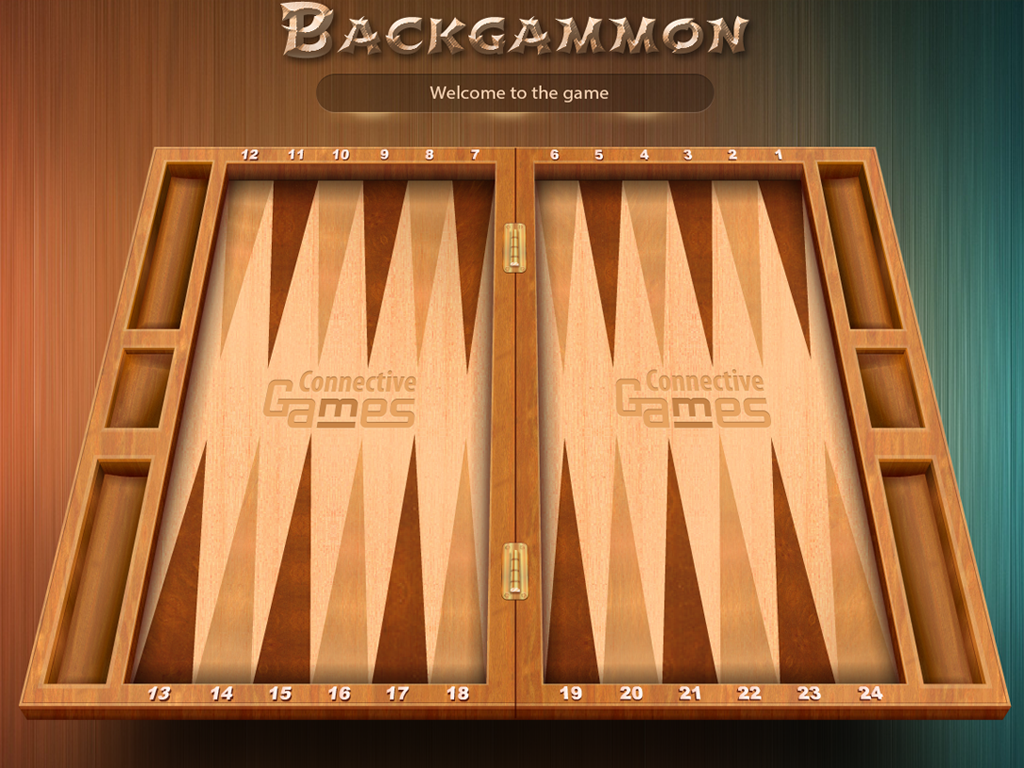
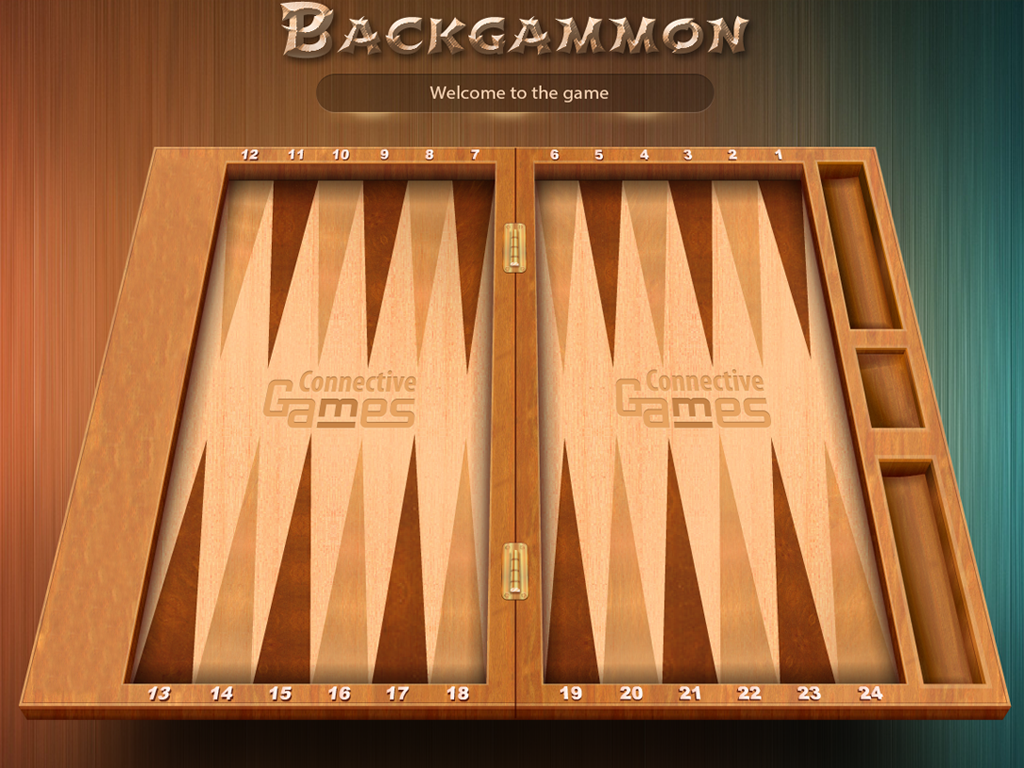
reDice+reBg

Changed region(s): [[0.0938, 0.1875, 0.2188, 0.5625], [0.0312, 0.5938, 0.1562, 0.9062]]

diff --git a/client/sources/game/Board.ts b/client/sources/game/Board.ts
@@ -23,7 +23,6 @@ export class Board extends Container2d {
     public static EVENT_GAME_END:string = 'GameEnd';
 
 
-
     public _newBg:Sprite;
     public metaDice1: number;
     public metaDice2: number;
@@ -40,15 +39,12 @@ export class Board extends Container2d {
     public _chipsOnTheRight = 0;
     private _exitWhite:number = 26;
     private _exitBlack:number = 27;
-    private _countExitWhite:number;
-    private _countExitBlack:number;
     private _maxDice:number = 0;
     private _minDice:number;
     private _isActive:boolean;
     private _activeMoves:number;
     private _activeDices:number[];
     private _activColor:number;
-
     private _container:Container2d;
     // public arrayChips: any[] = [
     //     [],
@@ -70,47 +66,43 @@ export class Board extends Container2d {
     // ];
 
 
-    public arrayChips: any[] = [
-        [],
-        [new Chip(Chip.COLOR_WHITE), new Chip(Chip.COLOR_WHITE)]
-        , [], [], [], [],
-        [new Chip(Chip.COLOR_BLACK), new Chip(Chip.COLOR_BLACK), new Chip(Chip.COLOR_BLACK), new Chip(Chip.COLOR_BLACK), new Chip(Chip.COLOR_BLACK)],
-        [],
-        [new Chip(Chip.COLOR_BLACK), new Chip(Chip.COLOR_BLACK), new Chip(Chip.COLOR_BLACK)],
-        [], [], [],
-        [new Chip(Chip.COLOR_WHITE), new Chip(Chip.COLOR_WHITE), new Chip(Chip.COLOR_WHITE), new Chip(Chip.COLOR_WHITE), new Chip(Chip.COLOR_WHITE)],
-        [new Chip(Chip.COLOR_BLACK), new Chip(Chip.COLOR_BLACK), new Chip(Chip.COLOR_BLACK), new Chip(Chip.COLOR_BLACK), new Chip(Chip.COLOR_BLACK)],
-        [], [], [],
-        [new Chip(Chip.COLOR_WHITE), new Chip(Chip.COLOR_WHITE), new Chip(Chip.COLOR_WHITE)],
-        [],
-        [new Chip(Chip.COLOR_WHITE), new Chip(Chip.COLOR_WHITE), new Chip(Chip.COLOR_WHITE), new Chip(Chip.COLOR_WHITE), new Chip(Chip.COLOR_WHITE)],
-        [], [], [], [],
-        [new Chip(Chip.COLOR_BLACK), new Chip(Chip.COLOR_BLACK)],
-        [],[],[]
-    ];
-
     // public arrayChips: any[] = [
     //     [],
-    //     []
+    //     [new Chip(Chip.COLOR_WHITE), new Chip(Chip.COLOR_WHITE)]
     //     , [], [], [], [],
+    //     [new Chip(Chip.COLOR_BLACK), new Chip(Chip.COLOR_BLACK), new Chip(Chip.COLOR_BLACK), new Chip(Chip.COLOR_BLACK), new Chip(Chip.COLOR_BLACK)],
     //     [],
-    //     [],
-    //     [],
+    //     [new Chip(Chip.COLOR_BLACK), new Chip(Chip.COLOR_BLACK), new Chip(Chip.COLOR_BLACK)],
     //     [], [], [],
-    //     [],
-    //     [],
+    //     [new Chip(Chip.COLOR_WHITE), new Chip(Chip.COLOR_WHITE), new Chip(Chip.COLOR_WHITE), new Chip(Chip.COLOR_WHITE), new Chip(Chip.COLOR_WHITE)],
+    //     [new Chip(Chip.COLOR_BLACK), new Chip(Chip.COLOR_BLACK), new Chip(Chip.COLOR_BLACK), new Chip(Chip.COLOR_BLACK), new Chip(Chip.COLOR_BLACK)],
     //     [], [], [],
+    //     [new Chip(Chip.COLOR_WHITE), new Chip(Chip.COLOR_WHITE), new Chip(Chip.COLOR_WHITE)],
     //     [],
-    //     [],
-    //     [],
+    //     [new Chip(Chip.COLOR_WHITE), new Chip(Chip.COLOR_WHITE), new Chip(Chip.COLOR_WHITE), new Chip(Chip.COLOR_WHITE), new Chip(Chip.COLOR_WHITE)],
     //     [], [], [], [],
-    //     [],
+    //     [new Chip(Chip.COLOR_BLACK), new Chip(Chip.COLOR_BLACK)],
     //     [],[],[]
     // ];
 
-//arrayChips
-
-
+    private arrayChips: any[] = [
+        [],
+        []
+        ,[], [], [], [],
+        [],
+        [],
+        [],
+        [], [], [],
+        [],
+        [],
+        [], [], [],
+        [],
+        [],
+        [],
+        [], [], [], [],
+        [],
+        [],[],[]
+    ];
 
     // public arrayChips: any[] = [
     //     [],
@@ -159,7 +151,6 @@ export class Board extends Container2d {
         new PIXI.Point(515,618),
 
         new PIXI.Point(885,628),new PIXI.Point(885,313)];
-
 
     public arrayPositionSector: Point[] = [
         new PIXI.Point(515,250),
@@ -213,7 +204,7 @@ export class Board extends Container2d {
                 if(chipPos[i].length==0){
                     this.arrayChips.push([]);
                 }else if(chipPos[i][j] == 0){
-                    this.arrayChips[i].push(new Chip(Chip.COLOR_WHITE))
+                    this.arrayChips[i].push(new Chip(Chip.COLOR_WHITE));
                 }else if(chipPos[i][j] == 1){
                     this.arrayChips[i].push(new Chip(Chip.COLOR_BLACK))
                 }
@@ -234,7 +225,7 @@ export class Board extends Container2d {
         }
     }
 
-    private drawState():void {
+    public drawState():void {
         //задает позицию фишек и рисует фишки
         for (let i = 0; i < this.arrayChips.length; i++) {
             for (let j = 0; j < this.arrayChips[i].length; j++) {
@@ -258,7 +249,6 @@ export class Board extends Container2d {
         this.arraySectors[this.sectorJailWhite].position.set(this.arrayPositionSector[this.sectorJailWhite].x,this.arrayPositionSector[this.sectorJailWhite].y);     //Jail
         this.arraySectors[this.sectorJailBlack].position.set(this.arrayPositionSector[this.sectorJailBlack].x,this.arrayPositionSector[this.sectorJailBlack].y);    //Jail
         this.arraySectors[this._exitBlack].rotation = -3.14;
-        // this.arraySectors[this._exitWhite].rotation = 0;
         this.arraySectors[this._exitWhite].position.set(this.arrayPositionSector[this._exitWhite].x,this.arrayPositionSector[this._exitWhite].y);
         this.arraySectors[this._exitBlack].position.set(this.arrayPositionSector[this._exitBlack].x,this.arrayPositionSector[this._exitBlack].y);
     }
@@ -273,7 +263,6 @@ export class Board extends Container2d {
     //-----------------Блок отрисовки элементов на доске конец---------------------
 
     //-----------------Блок деактивации элементов на доске начало---------------------
-
 
     private deactivationAllSectors():void{
         for (let i = 0; i < this.arraySectors.length; i++) {
@@ -308,7 +297,6 @@ export class Board extends Container2d {
         }
     }
     //-----------------Блок деактивации элементов на доске конец---------------------
-
 
     public startTurn(firsDice:number,secondDice:number,activColor:number):void{ //начало хода
         this.setDice(firsDice,secondDice);
@@ -364,13 +352,12 @@ export class Board extends Container2d {
     }
 
     private sectorClick(data: InteractionData): void {
-        //тут начинается магия
         if (this.countClick == 0) {
             this.countClick++;
             this.sound.playSoundClickChip();
-            this.firsSelectSectorIndex = this.arraySectors.indexOf(data.target);    // делаю это для того что бы можно было воспользоваться сектором на который кликнули первый раз т.е выбрали фишку
-            this.selectChip(this.firsSelectSectorIndex);    //в этом методе фишка меняет скин на зеленый (активный)
-            this.deactivationAllSectors();//убираю интерактив после выбора фишки со всех секторов кроме подсвеченных и кроме того на котором фишка стоит что бы можно было отметить выбранную фишку
+            this.firsSelectSectorIndex = this.arraySectors.indexOf(data.target);
+            this.selectChip(this.firsSelectSectorIndex);
+            this.deactivationAllSectors();
             this.arraySectors[this.firsSelectSectorIndex].interactiveOn();
             // console.log('Выбранный сектор  ' + this.firsSelectSectorIndex );
             // console.log('cелектЧипВайт  ' + this.selectChipColor);
@@ -397,6 +384,7 @@ export class Board extends Container2d {
             }
         }
     }
+
     private selectChip(selectSectorIndex:number):void {
 
         if(this.arrayChips[selectSectorIndex].length!=0){
@@ -463,16 +451,16 @@ export class Board extends Container2d {
             this._activeDices.push(first);
             this._activeDices.push(first);
             this._activeDices.push(first);
-            this._activeDices.push(first * 2);
-            this._activeDices.push(first * 2);
-            this._activeDices.push(first * 3);
-            this._activeDices.push(first * 4);
+            // this._activeDices.push(first * 2);
+            // this._activeDices.push(first * 2);
+            // this._activeDices.push(first * 3);
+            // this._activeDices.push(first * 4);
         }
         else
         {
             this._activeDices.push(first);
             this._activeDices.push(second);
-            this._activeDices.push(first + second);
+            // this._activeDices.push(first + second);
             this._activeMoves = first + second;
         }
         console.log('Кол-во возможных ходов: ', this._activeMoves, );
@@ -575,6 +563,7 @@ export class Board extends Container2d {
             this.arraySectors[way].highlightMove();
         }
     }
+
     private goExitWhite(sectorIndex: number){
         if(this._chipsOnTheLeft==0){
             if(this._chipsOnTheRight==sectorIndex){
@@ -584,7 +573,6 @@ export class Board extends Container2d {
             this.arraySectors[this._exitWhite].highlightMoveExit();
         }
     }
-
 
     private goExitBlack(sectorIndex: number){
         if(this._chipsOnTheLeft==0){
@@ -694,6 +682,7 @@ export class Board extends Container2d {
         }
         return metX;
     }
+
     public metamorphoseForWhite(x:number):number{
         let metX:number;
         switch(x){
